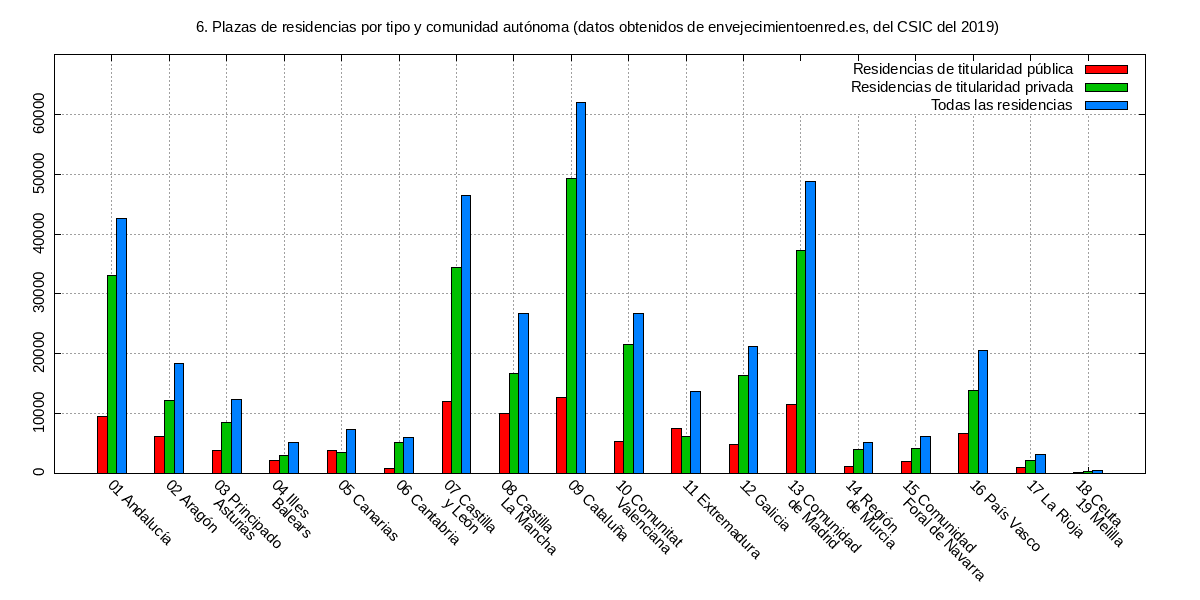
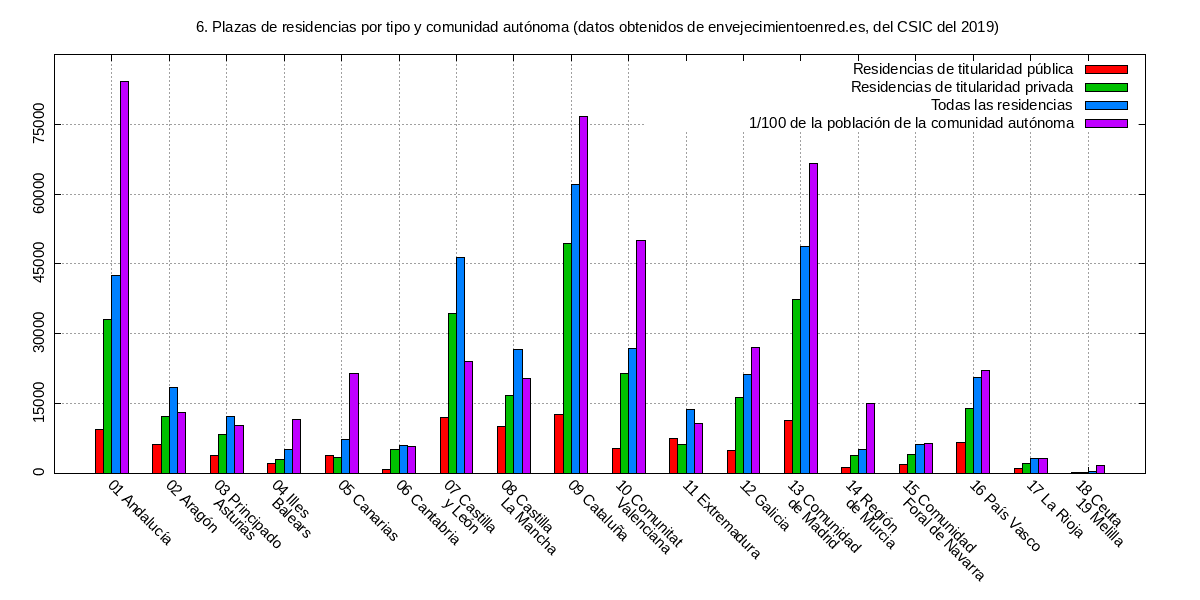
Afegir la variable de poblacio al plot06 per poder comparar la oferta de residencies vs poblacio de cada ccaa

diff --git a/php/plot06.php b/php/plot06.php
@@ -8,8 +8,9 @@ if(!file_exists("output/plot06${lang}.png")) {
 		$ccaas[$val[0]]=$val[0]." ".ccaa2fix($val[1]);
 	}
 	$resi=import_file("middle/residencias.csv");
+	$ine2=import_file("middle/02002-ok3.csv");
 	$matrix=array();
-	$tipos=array("Publica","Privada","Total");
+	$tipos=array("Publica","Privada","Total","XXX");
 	foreach($tipos as $tipo) {
 		foreach($ccaas as $ccaa) {
 			$matrix[$ccaa][$tipo]=0;
@@ -19,10 +20,16 @@ if(!file_exists("output/plot06${lang}.png")) {
 	foreach($resi as $key=>$val) {
 		if(isset($matrix[$val[0]][$val[1]])) $matrix[$val[0]][$val[1]]+=$val[3];
 	}
+	foreach($ine2 as $key=>$val) {
+		if($val[0]==2019) {
+			$matrix[$val[1]]["XXX"]=$val[2]/100;
+		}
+	}
 	$matrix["18 Ceuta + 19 Melilla"]=array(
 		$matrix["18 Ceuta"]["Publica"]+$matrix["19 Melilla"]["Publica"],
 		$matrix["18 Ceuta"]["Privada"]+$matrix["19 Melilla"]["Privada"],
 		$matrix["18 Ceuta"]["Total"]+$matrix["19 Melilla"]["Total"],
+		$matrix["18 Ceuta"]["XXX"]+$matrix["19 Melilla"]["XXX"],
 	);
 	unset($matrix["18 Ceuta"]);
 	unset($matrix["19 Melilla"]);
@@ -60,13 +67,13 @@ if(!file_exists("output/plot06${lang}.png")) {
 		"set style fill solid border -1",
 		"set xtic rotate by -45",
 		"set style histogram gap 3",
-		"set yrange [0:70000]",
+		"set yrange [0:90000]",
 		"set ytic center rotate by 90",
-		"set ytics 0,10000,60000",
+		"set ytics 0,15000,75000",
 		"set datafile separator '".SEPARADOR."'",
 		"set colors classic",
 		"set output 'output/plot06${lang}.png'",
-		"plot 'middle/plot06${lang}.csv' u 2:xtic(1) ti col, '' u 3:xtic(1) ti col, '' u 4:xtic(1) ti col",
+		"plot 'middle/plot06${lang}.csv' u 2:xtic(1) ti col, '' u 3:xtic(1) ti col, '' u 4:xtic(1) ti col, '' u 5:xtic(1) ti col",
 	))."\n";
 	file_put_contents("middle/plot06${lang}.gnu",$gnuplot);
 	passthru("gnuplot middle/plot06${lang}.gnu 2>&1");

diff --git a/php/langs.php b/php/langs.php
@@ -249,16 +249,19 @@ $textos=array(
 			"Publica"=>"Residències de titularitat pública",
 			"Privada"=>"Residències de titularitat privada",
 			"Total"=>"Totes les residències",
+			"XXX"=>"1/100 de la població de la comunitat autònoma",
 		),
 		"es"=>array(
 			"Publica"=>"Residencias de titularidad pública",
 			"Privada"=>"Residencias de titularidad privada",
 			"Total"=>"Todas las residencias",
+			"XXX"=>"1/100 de la población de la comunidad autónoma",
 		),
 		"en"=>array(
 			"Publica"=>"Publicly owned residences",
 			"Privada"=>"Privately owned residences",
 			"Total"=>"All residences",
+			"XXX"=>"1/100 of the total population in the autonomous community",
 		),
 	),
 	"hospitalbed"=>array(
